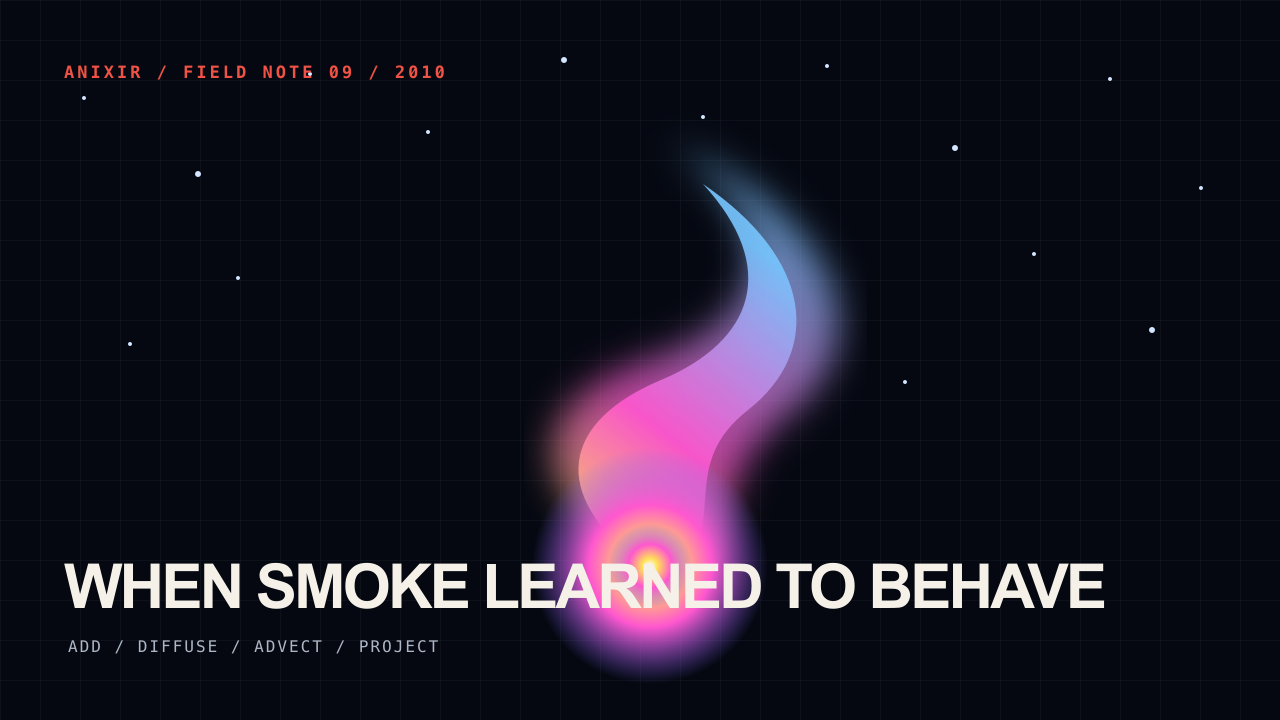
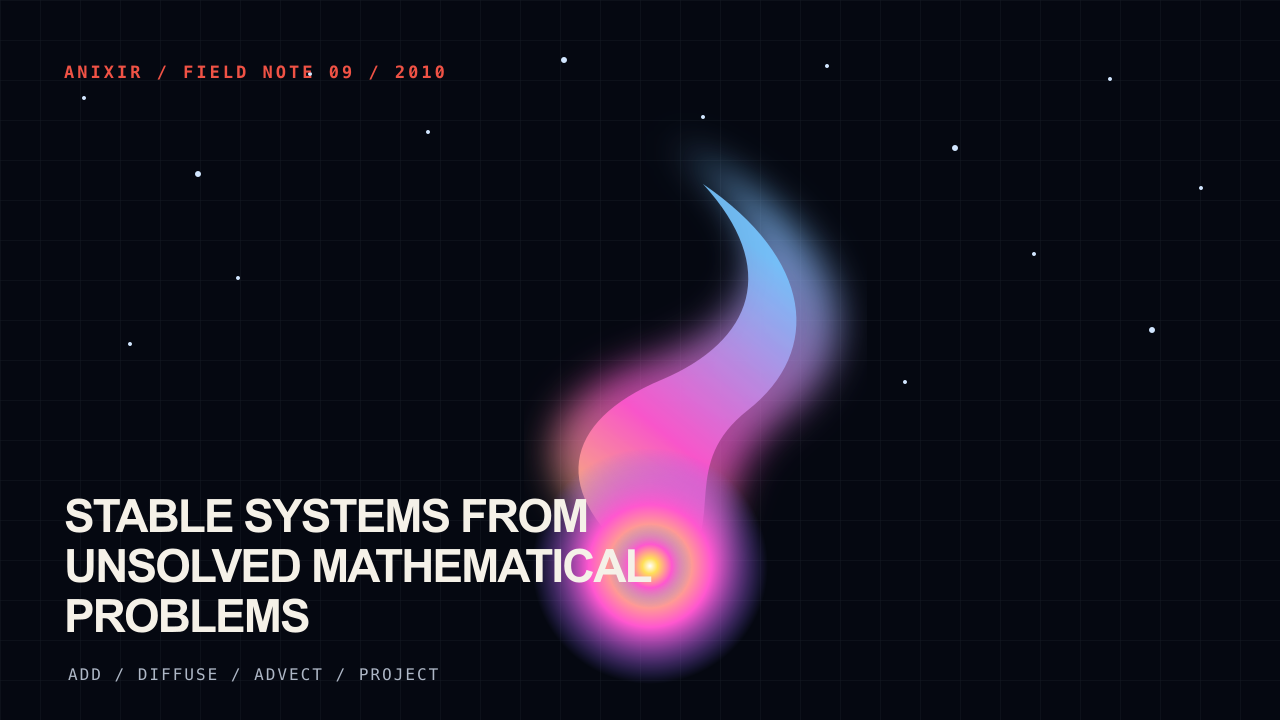
Polish Stable Fluids article embed

Changed region(s): [[0.0312, 0.6722, 0.875, 0.9472], [0.2812, 0.8861, 0.3438, 0.9472]]

diff --git a/writing/when-smoke-learned-to-behave/index.html b/writing/when-smoke-learned-to-behave/index.html
@@ -4,11 +4,11 @@
   <meta charset="utf-8">
   <meta name="viewport" content="width=device-width, initial-scale=1">
   <meta name="description" content="Discovering Jos Stam's CPU-powered Stable Fluids in 2010 and the four practical functions that turn a small grid into believable smoke.">
-  <title>Anixir | When Smoke Learned to Behave</title>
+  <title>Anixir | Stable Systems from Unsolved Mathematical Problems</title>
   <link rel="canonical" href="https://anixir.com/writing/when-smoke-learned-to-behave/">
   <meta property="og:type" content="article">
   <meta property="og:site_name" content="Anixir">
-  <meta property="og:title" content="When Smoke Learned to Behave">
+  <meta property="og:title" content="Stable Systems from Unsolved Mathematical Problems">
   <meta property="og:description" content="How a CPU-powered fluid algorithm turns four practical functions into believable interactive smoke.">
   <meta property="og:url" content="https://anixir.com/writing/when-smoke-learned-to-behave/">
   <meta property="og:image" content="https://anixir.com/assets/thumb-stable-fluids.png">
@@ -18,12 +18,12 @@
   <meta property="article:published_time" content="2010">
   <meta property="article:author" content="https://anixir.com/about/">
   <meta name="twitter:card" content="summary_large_image">
-  <meta name="twitter:title" content="When Smoke Learned to Behave">
+  <meta name="twitter:title" content="Stable Systems from Unsolved Mathematical Problems">
   <meta name="twitter:description" content="Four small functions turn a grid of numbers into smoke that feels alive.">
   <meta name="twitter:image" content="https://anixir.com/assets/thumb-stable-fluids.png">
   <meta name="twitter:image:alt" content="A bright fluid plume rising from a colorful nebula core">
   <link rel="icon" href="/favicon.ico">
-  <link rel="stylesheet" href="/styles.css?v=20260909-05">
+  <link rel="stylesheet" href="/styles.css?v=20260909-06">
 </head>
 <body>
   <div class="site-frame">
@@ -37,12 +37,12 @@
       <a class="back-link" href="/writing/">← All writing</a>
       <header class="article-header">
         <div class="article-meta"><span>Graphics / Simulation</span><time datetime="2010">2010</time><span>7 minute read</span></div>
-        <h1>When Smoke<br>Learned to Behave</h1>
+        <h1>Stable Systems from<br>Unsolved Mathematical Problems</h1>
         <p class="dek">Discovering Jos Stam's CPU-powered Stable Fluids in 2010 and the four practical functions that turn a small grid into believable smoke.</p>
       </header>
 
       <section class="article-live-demo article-live-demo-top" aria-label="Smokey McFlame Face presentation">
-        <iframe src="/experiments/stable-fluids/smokey-mcflame-face/" title="Smokey McFlame Face interactive fluid simulation"></iframe>
+        <iframe src="/experiments/stable-fluids/smokey-mcflame-face/" title="Smokey McFlame Face interactive fluid simulation" scrolling="no"></iframe>
         <p class="demo-note">Start the simulation, move the pointer, and watch the grid carry color through the last direction and speed of your gesture.</p>
       </section>
 

diff --git a/writing/index.html b/writing/index.html
@@ -38,7 +38,7 @@
         <a class="article-row" href="/writing/feedback-form-builder/"><time datetime="2016-03-09">Mar 09 / 2016</time><img class="article-thumbnail" src="/assets/feedback-form-builder.png" width="2520" height="1200" loading="lazy" alt="The Feedback Form Builder interface"><h2>The Form Builder Before State-Driven UI Became the Default</h2><span>7 min</span></a>
         <a class="article-row" href="/writing/our-university-paris/"><time datetime="2015-11-08">Nov 08 / 2015</time><img class="article-thumbnail" src="/assets/our-university-paris.jpg" width="1280" height="720" loading="lazy" alt="Aman Singh presenting at Capgemini Business Priority Week in 2015"><h2>Five Minutes in Paris</h2><span>8 min</span></a>
         <a class="article-row" href="/writing/squares-mean-a-world-to-us/"><time datetime="2014-09-23">Sep 23 / 2014</time><img class="article-thumbnail" src="/project-images/p1/1.png" width="897" height="495" loading="lazy" alt="The original Square City Babylon.js world"><h2>Squares Mean a World to Us</h2><span>9 min</span></a>
-        <a class="article-row" href="/writing/when-smoke-learned-to-behave/"><time datetime="2010">2010</time><img class="article-thumbnail" src="/assets/thumb-stable-fluids.svg" width="1280" height="720" loading="lazy" alt="A bright fluid plume rising from a colorful nebula core"><h2>When Smoke Learned to Behave</h2><span>7 min</span></a>
+        <a class="article-row" href="/writing/when-smoke-learned-to-behave/"><time datetime="2010">2010</time><img class="article-thumbnail" src="/assets/thumb-stable-fluids.svg" width="1280" height="720" loading="lazy" alt="A bright fluid plume rising from a colorful nebula core"><h2>Stable Systems from Unsolved Mathematical Problems</h2><span>7 min</span></a>
       </section>
     </main>
 

diff --git a/writing/not-your-model-not-your-research/index.html b/writing/not-your-model-not-your-research/index.html
@@ -23,7 +23,7 @@
   <meta name="twitter:image" content="https://anixir.com/assets/thumb-not-your-model.png">
   <meta name="twitter:image:alt" content="Fluid streamlines entering an opaque model boundary">
   <link rel="icon" href="/favicon.ico">
-  <link rel="stylesheet" href="/styles.css?v=20260909-04">
+  <link rel="stylesheet" href="/styles.css?v=20260909-06">
 </head>
 <body>
   <div class="site-frame">
@@ -154,7 +154,7 @@
           <section class="article-live-demo" aria-labelledby="smokey-mcflame-face-title">
             <h2 id="smokey-mcflame-face-title">Try Smokey McFlame Face</h2>
             <p>A 64 x 64 fluid grid turns Stam’s method into a bright nebula plume. It rises from a circular core, follows the pointer, and curls through a slowly moving field of stars.</p>
-            <iframe src="/experiments/stable-fluids/smokey-mcflame-face/" title="Smokey McFlame Face interactive fluid simulation" loading="lazy"></iframe>
+            <iframe src="/experiments/stable-fluids/smokey-mcflame-face/" title="Smokey McFlame Face interactive fluid simulation" scrolling="no"></iframe>
             <p class="demo-note">Pure JavaScript and canvas. Start the simulation, then move a mouse, pen, or finger through the field.</p>
           </section>
 

diff --git a/styles.css b/styles.css
@@ -577,14 +577,14 @@ img { display: block; max-width: 100%; }
 
 .article-live-demo { margin-top: 6em; }
 .article-live-demo > p { max-width: 68ch; }
-.article-live-demo iframe { display: block; width: 100%; height: 720px; margin-top: 2em; border: 1px solid var(--line); background: var(--ink); }
+.article-live-demo iframe { display: block; width: 100%; height: 720px; margin-top: 2em; overflow: hidden; border: 1px solid var(--line); background: var(--ink); }
 .article-live-demo .demo-note { margin-top: 12px; color: var(--muted); font: 9px/1.5 var(--mono); text-transform: uppercase; }
 .article-live-demo-top { max-width: 1180px; margin: -35px auto 100px; }
 .article-live-demo-top iframe { height: 820px; margin-top: 0; }
 
 @media (max-width: 620px) {
-  .article-live-demo iframe { height: 560px; }
   .article-live-demo-top { margin-top: -25px; margin-bottom: 65px; }
+  .article-live-demo iframe { height: 560px; }
   .article-live-demo-top iframe { height: 650px; }
 }
 

diff --git a/content/writing/when-smoke-learned-to-behave.md b/content/writing/when-smoke-learned-to-behave.md
@@ -1,5 +1,5 @@
 ---
-title: "When Smoke Learned to Behave"
+title: "Stable Systems from Unsolved Mathematical Problems"
 description: "Discovering Jos Stam's CPU-powered Stable Fluids in 2010 and the four practical functions that turn a small grid into believable smoke."
 date: 2010
 category: "Graphics / Simulation"
@@ -8,7 +8,7 @@ thumbnail: "/assets/thumb-stable-fluids.svg"
 social_image: "/assets/thumb-stable-fluids.png"
 ---
 
-<iframe src="/experiments/stable-fluids/smokey-mcflame-face/" title="Smokey McFlame Face interactive fluid simulation"></iframe>
+<iframe src="/experiments/stable-fluids/smokey-mcflame-face/" title="Smokey McFlame Face interactive fluid simulation" scrolling="no"></iframe>
 
 In 2010, I discovered Jos Stam's CPU-powered Stable Fluids algorithm and became fascinated by a simple contradiction: smoke could look alive without making the computer solve every detail of real smoke.
 

diff --git a/content/writing/not-your-model-not-your-research.md b/content/writing/not-your-model-not-your-research.md
@@ -113,7 +113,7 @@ A serious research tool should isolate work from training by default, pin model 
 
 A 64 x 64 fluid grid turns Stam's method into a bright nebula plume. It rises from a circular core, follows the pointer, and curls through a slowly moving field of stars.
 
-<iframe src="/experiments/stable-fluids/smokey-mcflame-face/" title="Smokey McFlame Face interactive fluid simulation" loading="lazy"></iframe>
+<iframe src="/experiments/stable-fluids/smokey-mcflame-face/" title="Smokey McFlame Face interactive fluid simulation" scrolling="no"></iframe>
 
 Pure JavaScript and canvas. Start the simulation, then move a mouse, pen, or finger through the field.
 
